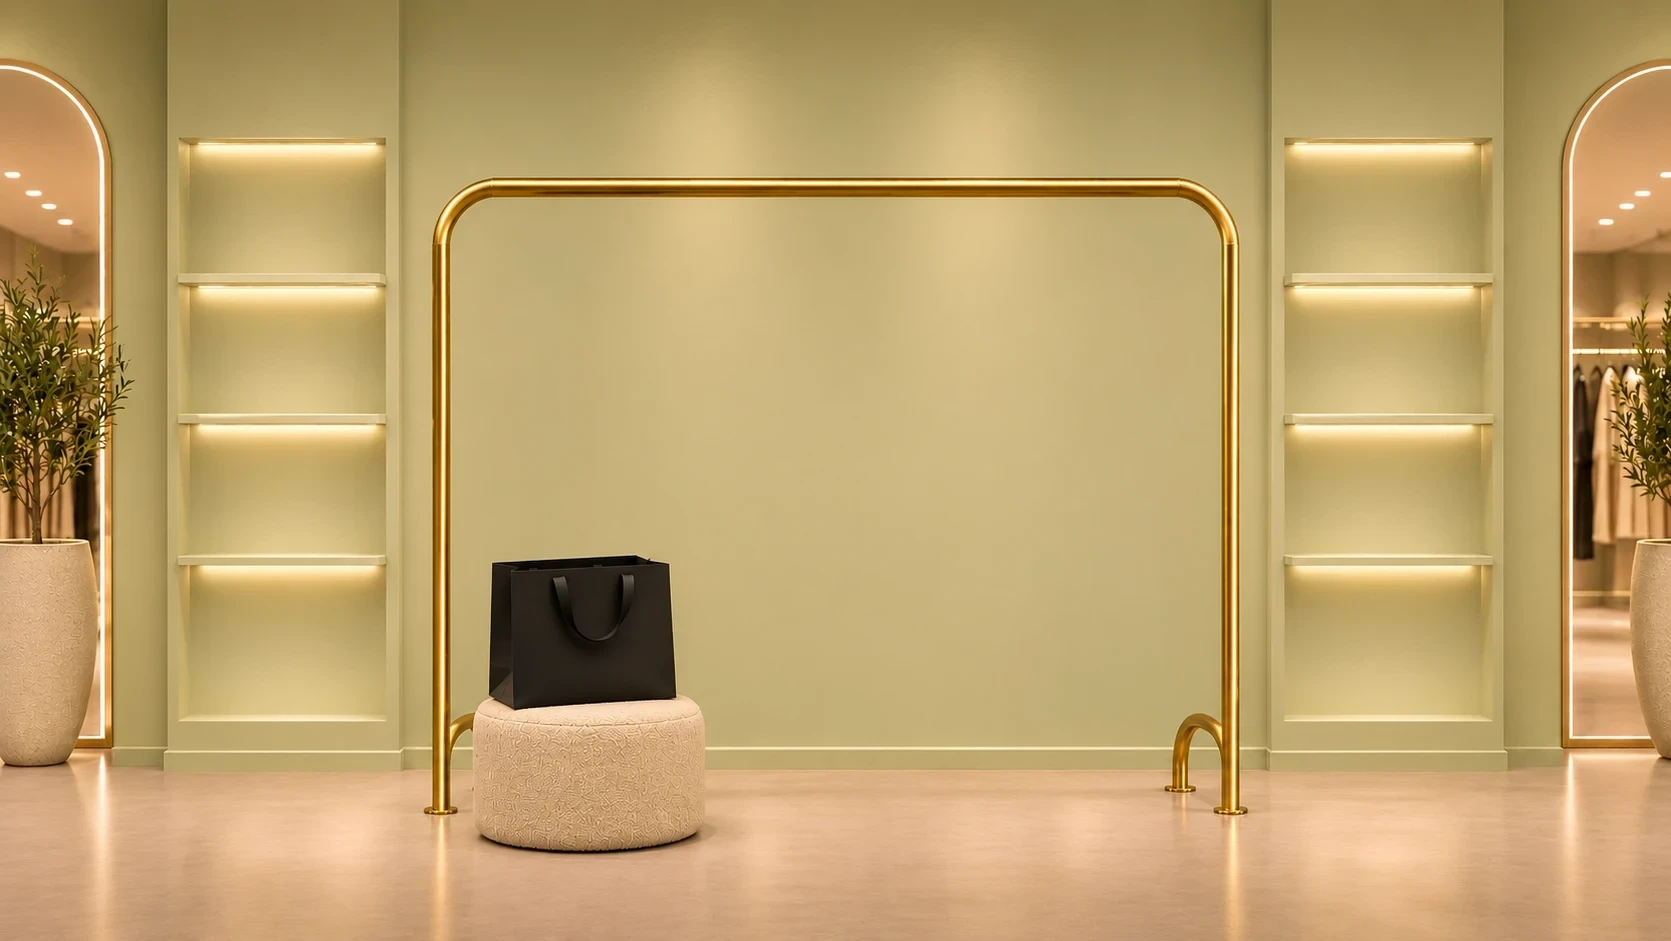
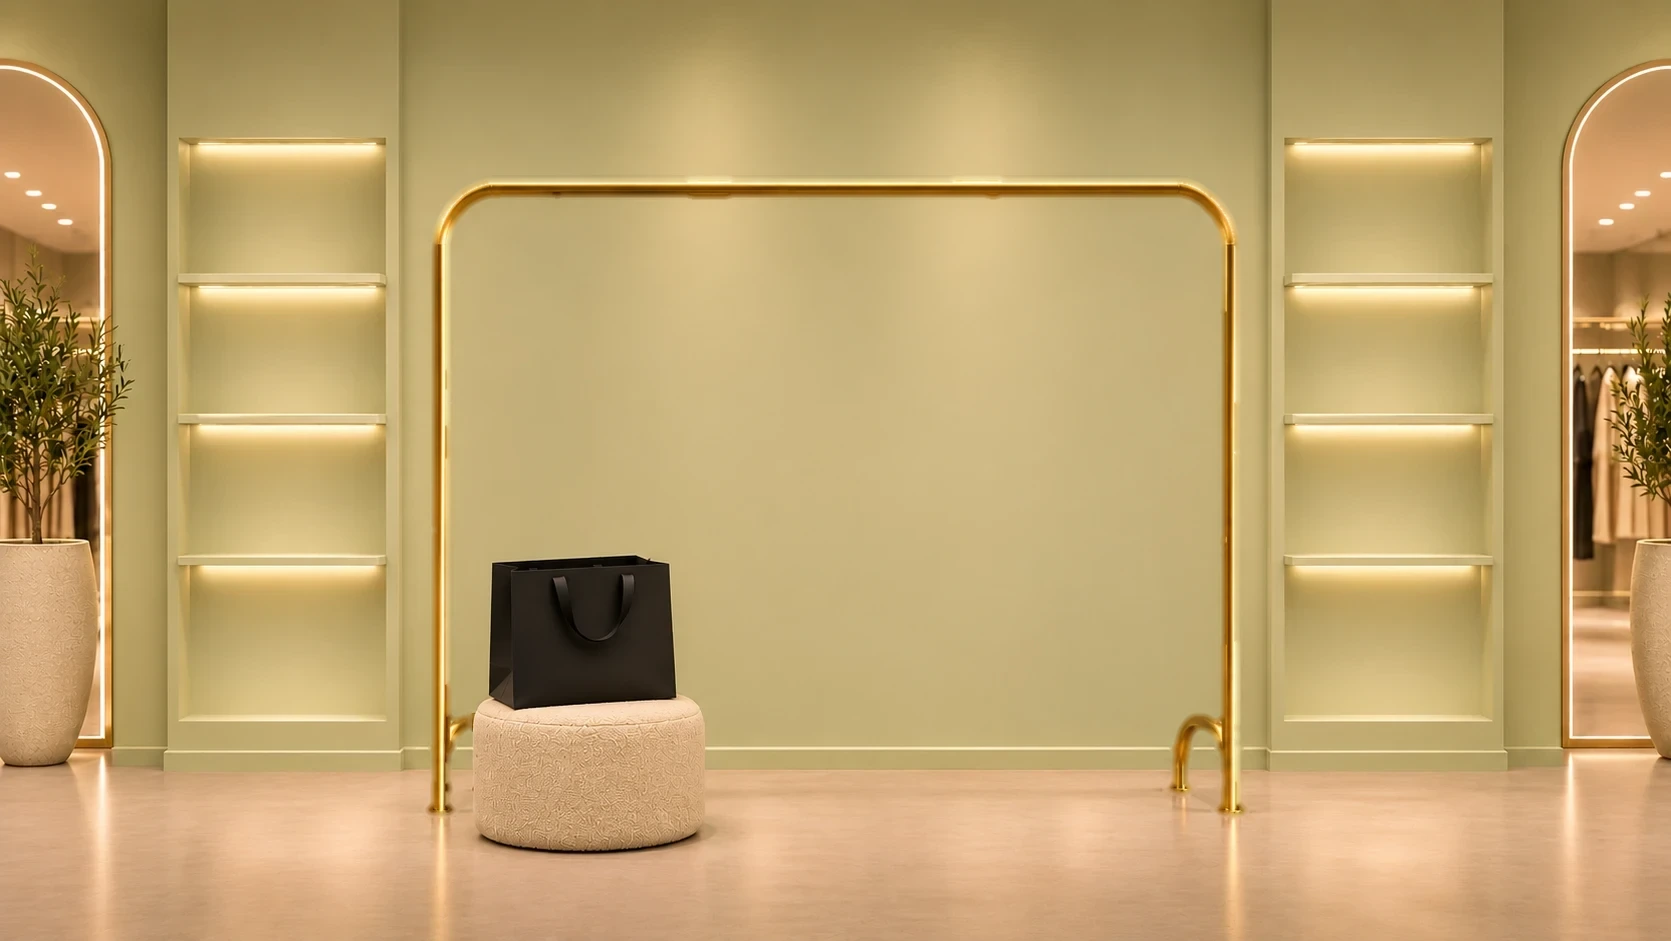
Vitrine: proporcoes reais das pecas (vestidos maiores que jaquetas) e cano da arara mais fino
Claude-Session: https://claude.ai/code/session_01JWzVUcZkAyRrpFP19gM6id

Changed region(s): [[0.6846, 0.2157, 0.7469, 0.8629], [0.249, 0.2157, 0.2801, 0.8629], [0.2801, 0.1849, 0.7157, 0.2157]]

diff --git a/index.html b/index.html
@@ -1674,7 +1674,7 @@ function basketSway(){
    As imagens já trazem gancho dourado e cabide; cada gancho é alinhado à barra da arara. */
 (function evyMountStorePieces(){
  const SW=1671,SH=941,BAR_Y=187.5,CX0=492,CSTEP=58.17;
- const cfg=[{"id": "biker", "label": "Jaqueta biker preta", "H": 262, "front": {"src": "assets/pecas/jaqueta-biker-frontal.png", "w": 290, "h": 426, "rx": 0.5183, "ry": 0.0385}, "side": {"src": "assets/pecas/jaqueta-biker-lateral.png", "w": 196, "h": 433, "rx": 0.4908, "ry": 0.0393}}, {"id": "vinho", "label": "Jaqueta vinho de verniz", "H": 226, "front": {"src": "assets/pecas/jaqueta-vinho-frontal.webp", "w": 529, "h": 700, "rx": 0.4981, "ry": 0.031}, "side": {"src": "assets/pecas/jaqueta-vinho-lateral.webp", "w": 442, "h": 700, "rx": 0.5046, "ry": 0.0267}}, {"id": "renda", "label": "Vestido preto de renda com corset", "H": 299, "front": {"src": "assets/pecas/vestido-renda-frontal.webp", "w": 351, "h": 700, "rx": 0.4621, "ry": 0.0096}, "side": {"src": "assets/pecas/vestido-renda-lateral.webp", "w": 290, "h": 700, "rx": 0.4984, "ry": 0.0087}}, {"id": "creme", "label": "Vestido creme drapeado", "H": 283, "front": {"src": "assets/pecas/vestido-creme-lateral.webp", "w": 275, "h": 700, "rx": 0.4716, "ry": 0.0264}, "side": {"src": "assets/pecas/vestido-creme-lateral.webp", "w": 275, "h": 700, "rx": 0.4716, "ry": 0.0264}}, {"id": "fur", "label": "Casaco preto de pelos", "H": 279, "front": {"src": "assets/pecas/casaco-pelo-frontal.png", "w": 319, "h": 446, "rx": 0.5043, "ry": 0.0361}, "side": {"src": "assets/pecas/casaco-pelo-lateral.png", "w": 218, "h": 465, "rx": 0.4928, "ry": 0.0351}}, {"id": "oliva", "label": "Jaqueta verde-oliva com cinto", "H": 238, "front": {"src": "assets/pecas/jaqueta-oliva-frontal.webp", "w": 502, "h": 700, "rx": 0.505, "ry": 0.0289}, "side": {"src": "assets/pecas/jaqueta-oliva-lateral.webp", "w": 419, "h": 700, "rx": 0.497, "ry": 0.0276}}, {"id": "marrom", "label": "Vestido marrom balonê", "H": 256, "front": {"src": "assets/pecas/vestido-marrom-frontal.png", "w": 251, "h": 442, "rx": 0.5428, "ry": 0.0342}, "side": {"src": "assets/pecas/vestido-marrom-lateral.png", "w": 202, "h": 434, "rx": 0.4328, "ry": 0.0136}}, {"id": "caramelo", "label": "Conjunto caramelo em couro", "H": 234, "front": {"src": "assets/pecas/conjunto-caramelo-frontal.webp", "w": 516, "h": 700, "rx": 0.4963, "ry": 0.0396}, "side": {"src": "assets/pecas/conjunto-caramelo-lateral.webp", "w": 489, "h": 700, "rx": 0.5157, "ry": 0.0396}}, {"id": "redinha", "label": "Body de redinha preto", "H": 271, "front": {"src": "assets/pecas/body-redinha-frontal.webp", "w": 377, "h": 700, "rx": 0.5013, "ry": 0.0164}, "side": {"src": "assets/pecas/body-redinha-lateral.webp", "w": 366, "h": 700, "rx": 0.4988, "ry": 0.0281}}, {"id": "pelobiker", "label": "Jaqueta biker com pelo", "H": 230, "front": {"src": "assets/pecas/jaqueta-pelo-frontal.webp", "w": 542, "h": 700, "rx": 0.4713, "ry": 0.0113}, "side": {"src": "assets/pecas/jaqueta-pelo-frontal.webp", "w": 542, "h": 700, "rx": 0.4713, "ry": 0.0113}}, {"id": "branco", "label": "Vestido branco longo", "H": 426, "front": {"src": "assets/pecas/vestido-branco-frontal.webp", "w": 221, "h": 700, "rx": 0.4824, "ry": 0.0061}, "side": {"src": "assets/pecas/vestido-branco-lateral.webp", "w": 213, "h": 700, "rx": 0.5763, "ry": 0.0053}}, {"id": "assimetrico", "label": "Vestido preto assimétrico", "H": 309, "front": {"src": "assets/pecas/vestido-assimetrico-frontal.png", "w": 179, "h": 499, "rx": 0.5174, "ry": 0.0297}, "side": {"src": "assets/pecas/vestido-assimetrico-lateral.png", "w": 139, "h": 505, "rx": 0.476, "ry": 0.0313}}, {"id": "balone", "label": "Vestido preto balonê", "H": 253, "front": {"src": "assets/pecas/vestido-veludo-frontal.png", "w": 250, "h": 466, "rx": 0.456, "ry": 0.0105}, "side": {"src": "assets/pecas/vestido-veludo-lateral.png", "w": 214, "h": 449, "rx": 0.5252, "ry": 0.033}}];
+ const cfg=[{"id": "biker", "label": "Jaqueta biker preta", "H": 236, "front": {"src": "assets/pecas/jaqueta-biker-frontal.png", "w": 290, "h": 426, "rx": 0.5183, "ry": 0.0385}, "side": {"src": "assets/pecas/jaqueta-biker-lateral.png", "w": 196, "h": 433, "rx": 0.4908, "ry": 0.0393}}, {"id": "vinho", "label": "Jaqueta vinho de verniz", "H": 236, "front": {"src": "assets/pecas/jaqueta-vinho-frontal.webp", "w": 529, "h": 700, "rx": 0.4981, "ry": 0.031}, "side": {"src": "assets/pecas/jaqueta-vinho-lateral.webp", "w": 442, "h": 700, "rx": 0.5046, "ry": 0.0267}}, {"id": "renda", "label": "Vestido preto de renda com corset", "H": 425, "front": {"src": "assets/pecas/vestido-renda-frontal.webp", "w": 351, "h": 700, "rx": 0.4621, "ry": 0.0096}, "side": {"src": "assets/pecas/vestido-renda-lateral.webp", "w": 290, "h": 700, "rx": 0.4984, "ry": 0.0087}}, {"id": "creme", "label": "Vestido creme drapeado", "H": 400, "front": {"src": "assets/pecas/vestido-creme-lateral.webp", "w": 275, "h": 700, "rx": 0.4716, "ry": 0.0264}, "side": {"src": "assets/pecas/vestido-creme-lateral.webp", "w": 275, "h": 700, "rx": 0.4716, "ry": 0.0264}}, {"id": "fur", "label": "Casaco preto de pelos", "H": 250, "front": {"src": "assets/pecas/casaco-pelo-frontal.png", "w": 319, "h": 446, "rx": 0.5043, "ry": 0.0361}, "side": {"src": "assets/pecas/casaco-pelo-lateral.png", "w": 218, "h": 465, "rx": 0.4928, "ry": 0.0351}}, {"id": "oliva", "label": "Jaqueta verde-oliva com cinto", "H": 274, "front": {"src": "assets/pecas/jaqueta-oliva-frontal.webp", "w": 502, "h": 700, "rx": 0.505, "ry": 0.0289}, "side": {"src": "assets/pecas/jaqueta-oliva-lateral.webp", "w": 419, "h": 700, "rx": 0.497, "ry": 0.0276}}, {"id": "marrom", "label": "Vestido marrom balonê", "H": 370, "front": {"src": "assets/pecas/vestido-marrom-frontal.png", "w": 251, "h": 442, "rx": 0.5428, "ry": 0.0342}, "side": {"src": "assets/pecas/vestido-marrom-lateral.png", "w": 202, "h": 434, "rx": 0.4328, "ry": 0.0136}}, {"id": "caramelo", "label": "Conjunto caramelo em couro", "H": 350, "front": {"src": "assets/pecas/conjunto-caramelo-frontal.webp", "w": 516, "h": 700, "rx": 0.4963, "ry": 0.0396}, "side": {"src": "assets/pecas/conjunto-caramelo-lateral.webp", "w": 489, "h": 700, "rx": 0.5157, "ry": 0.0396}}, {"id": "redinha", "label": "Body de redinha preto", "H": 312, "front": {"src": "assets/pecas/body-redinha-frontal.webp", "w": 377, "h": 700, "rx": 0.5013, "ry": 0.0164}, "side": {"src": "assets/pecas/body-redinha-lateral.webp", "w": 366, "h": 700, "rx": 0.4988, "ry": 0.0281}}, {"id": "pelobiker", "label": "Jaqueta biker com pelo", "H": 236, "front": {"src": "assets/pecas/jaqueta-pelo-frontal.webp", "w": 542, "h": 700, "rx": 0.4713, "ry": 0.0113}, "side": {"src": "assets/pecas/jaqueta-pelo-frontal.webp", "w": 542, "h": 700, "rx": 0.4713, "ry": 0.0113}}, {"id": "branco", "label": "Vestido branco longo", "H": 578, "front": {"src": "assets/pecas/vestido-branco-frontal.webp", "w": 221, "h": 700, "rx": 0.4824, "ry": 0.0061}, "side": {"src": "assets/pecas/vestido-branco-lateral.webp", "w": 213, "h": 700, "rx": 0.5763, "ry": 0.0053}}, {"id": "assimetrico", "label": "Vestido preto assimétrico", "H": 405, "front": {"src": "assets/pecas/vestido-assimetrico-frontal.png", "w": 179, "h": 499, "rx": 0.5174, "ry": 0.0297}, "side": {"src": "assets/pecas/vestido-assimetrico-lateral.png", "w": 139, "h": 505, "rx": 0.476, "ry": 0.0313}}, {"id": "balone", "label": "Vestido preto balonê", "H": 370, "front": {"src": "assets/pecas/vestido-veludo-frontal.png", "w": 250, "h": 466, "rx": 0.456, "ry": 0.0105}, "side": {"src": "assets/pecas/vestido-veludo-lateral.png", "w": 214, "h": 449, "rx": 0.5252, "ry": 0.033}}];
  const host=document.getElementById('storePieces');
  if(!host)return;
  // Peças novas: entram no catálogo (tamanho e valor sob consulta) com a foto de frente, já com cabide.
